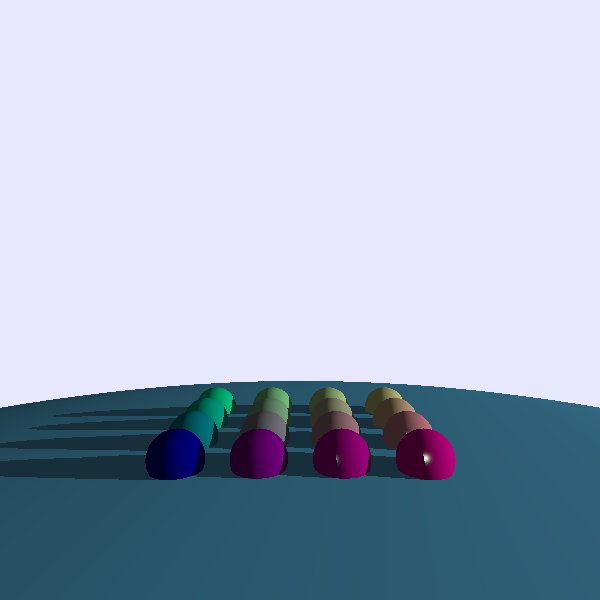
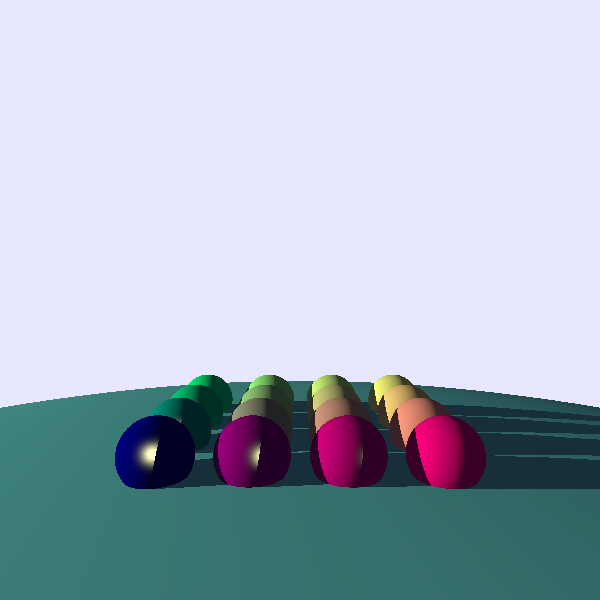
a04

Changed region(s): [[0.0, 0.6, 1.0, 1.0]]

diff --git a/src/cgg/A04.java b/src/cgg/A04.java
@@ -1,5 +1,123 @@
 package cgg;
 
+import cgg.Image;
+import java.util.ArrayList;
+import java.util.List;
+import tools.Color;
+import tools.Group;
+import tools.Lichtquelle;
+import tools.Plane;
+import tools.Shape;
+import tools.SimpleCamera;
+import tools.SimpleRayTracer;
+import tools.Sphere;
+import tools.Vec3;
+
+
 public class A04 {
+    
+    public static void main(String[] args){
+        Vec3 cameraPos = new Vec3(0,10,7);  //Y越大越高，Z越负越远
+        SimpleCamera camera = new SimpleCamera(Math.PI / 3, 600, 600, cameraPos);
+
+        List<Shape> scene = new ArrayList<>();
+
+        List<Shape> snowmen = createSnowmanGrid(4, 4); 
+        scene.addAll(snowmen);
+
+        Vec3 planeCenter = new Vec3(0,-197.8,-28); //球心位置
+        double planeRadius = 200;   //球心半径
+        Color planeColor = new Color(0.1, 0.5, 0.8);
+        double planeYMin = 5;  
+        Plane groundPlane = new Plane(planeCenter, planeRadius, planeColor, planeYMin);
+        scene.add(groundPlane); // 地面加入场景
+
+        // 4. 背景色
+        Color backgroundColor = new Color(1, 1, 1);
+
+        // 5. 添加光源
+        List<Lichtquelle> lichtquellen = new ArrayList<>();  // 创建光源列表
+        
+        // 5.1 添加方向光源（太阳光）
+        Vec3 lichtRichtung = new Vec3(5, -1, -0.9).normalize();  // 光源方向
+        Color lichtIntensitaet = new Color(2.0f, 2.0f, 1.0f);   // 白光强度
+        lichtquellen.add(Lichtquelle.createRichtungslicht(lichtRichtung, lichtIntensitaet));
+        
+        // 5.2 添加点光源（灯泡，在场景上方）
+        Vec3 punktLichtPos = new Vec3(5, -2, -1);  // 点光源位置（球体上方）
+        Color punktLichtIntens = new Color(1, 1, 1f);  // 点光源强度
+        lichtquellen.add(Lichtquelle.createPunktlicht(punktLichtPos, punktLichtIntens));
+
+    
+        // 6. 创建光线追踪器（传入光源列表）
+        SimpleRayTracer rayTracer = new SimpleRayTracer(
+            camera,
+            scene,
+            backgroundColor,
+            lichtquellen  
+        );
+
+    Image image = new Image(600,600);
+    for (int y = 0; y < 600; y++) {
+        for (int x = 0; x < 600; x++){
+            Color pixelColor = rayTracer.getColor(x, y);
+            image.setPixel(x,y, pixelColor);
+        }
+    }
+
+    image.writePng("a04");
+}    
+
+
+// 放在A04.java的类内部，作为工具方法
+private static Group createSnowman(Vec3 baseCenter, double baseRadius, Color color) {
+    Group snowman = new Group();
+    
+    // 下大球（原球体）
+    Sphere baseSphere = new Sphere(baseCenter, baseRadius, color);
+    snowman.addChild(baseSphere);
+    
+    // 上小球（半径为大球的1/2，位置在正上方）
+    double topRadius = baseRadius / 2;
+    Vec3 topCenter = new Vec3(
+        baseCenter.x(), 
+        baseCenter.y() + baseRadius + topRadius, // y轴偏移：大球半径+小球半径
+        baseCenter.z()
+    );
+    Sphere topSphere = new Sphere(topCenter, topRadius, color);
+    snowman.addChild(topSphere);
+    
+    return snowman;
+}
+
+// 创建4×4雪人矩阵
+    private static List<Shape> createSnowmanGrid(int rows, int cols) {
+        List<Shape> shapes = new ArrayList<>();
+        double baseRadius = 1.8; // 保留原大球半径
+        double spacing = 4.5;    // 保留原间距
+        double yPos = 1 + baseRadius; // 下大球的y位置（原球体y坐标）
+
+        // 中心偏移计算（保持矩阵居中，不变）
+        double centerOffsetX = (cols - 1) * spacing / 2.0;
+        double centerOffsetZ = (rows - 1) * spacing / 2.0;
+
+        for (int row = 0; row < rows; row++) {
+            for (int col = 0; col < cols; col++) {
+                // 计算下大球位置（原球体位置，不变）
+                double x = col * spacing - centerOffsetX;
+                double z = -(row * spacing - centerOffsetZ) - 22;
+                Vec3 baseCenter = new Vec3(x, yPos, z);
+
+                // 按列设置颜色（偶数列黑，奇数列白）
+                Color color = (col % 2 == 0) ? new Color(0,0,0) : new Color(1,1,1);
+                // 创建雪人组并添加到列表
+                Group snowman = createSnowman(baseCenter, baseRadius, color);
+                shapes.add(snowman);
+            }
+        }
+        return shapes;
+    }
+
+
     
 }

diff --git a/src/tools/SimpleRayTracer.java b/src/tools/SimpleRayTracer.java
@@ -4,10 +4,8 @@ import java.util.List;
 import tools.Color;
 import tools.Hit;
 import tools.Lichtquelle;
-import tools.Plane;
 import tools.Ray;
 import tools.SimpleCamera;
-import tools.Sphere;
 import tools.Vec2;
 import tools.Vec3;
 
@@ -15,22 +13,20 @@ import static tools.Functions.reflect;
 
 public class SimpleRayTracer {
     private final SimpleCamera camera;
-    private final List<Sphere> spheres;
+    private final List<Shape> scene;
     private final Color backgroundColor;
     private final List<Lichtquelle> lichtquelle;
-    private final Plane ground;
+
 
     // 构造方法：初始化场景组件
     public SimpleRayTracer(
         SimpleCamera camera, 
-        List<Sphere> spheres, 
-        Plane groundPlane,  
+        List<Shape> scene, 
         Color backgroundColor,        
         List<Lichtquelle> lichtquelle
     ) {
         this.camera = camera;
-        this.spheres = spheres;
-        this.ground = groundPlane;
+        this.scene = scene;
         this.backgroundColor = backgroundColor;
         this.lichtquelle = lichtquelle;
     }             
@@ -46,9 +42,9 @@ public class SimpleRayTracer {
         Hit closestHit = null;
         double minT = Double.POSITIVE_INFINITY;
 
-        // 检测与球体的相交
-        for (Sphere sphere : spheres) {
-            Hit hit = sphere.intersect(ray);
+        // 遍历scene中所有形状（包括球体、地面、Group）
+        for (Shape shape : scene) {
+            Hit hit = shape.intersect(ray); // 调用每个Shape的intersect方法
             if (hit != null) {
                 double t = hit.t();
                 if (t < minT && ray.isWithinBounds(t)) {
@@ -58,17 +54,7 @@ public class SimpleRayTracer {
             }
         }
 
-        // 检测与地面的相交
-        if (ground != null) {
-            Hit groundHit = ground.hit(ray);
-            if (groundHit != null) {
-                double t = groundHit.t();
-                if (t < minT && ray.isWithinBounds(t)) {
-                    minT = t;
-                    closestHit = groundHit;
-                }
-            }
-        }
+    
 
         // 3. 计算交点颜色或返回背景色
         if (closestHit != null) {
@@ -84,9 +70,7 @@ public class SimpleRayTracer {
         }
     }
 
-    private void clamp() {
-        // TODO
-    }
+    
 
     /**
      * 光照计算：环境光 + 漫反射 + 镜面反射 + 阴影
@@ -127,8 +111,8 @@ public class SimpleRayTracer {
             // 4. 镜面反射（Phong模型）
             Vec3 r = reflect(l, n);  // 反射方向
             double dotRV = Math.max(0, r.dot(v));  // 反射方向与视线夹角
-            float specularStrength = 1.0f;
-            double shininess = 200;  // 高光集中度
+            float specularStrength = 0.7f;
+            double shininess = 60;  // 高光集中度
             Color specular = lightIntensity
                 .multiply(specularStrength * (float) Math.pow(dotRV, shininess));
             specularTotal = specularTotal.add(specular);
@@ -166,20 +150,13 @@ public class SimpleRayTracer {
         Ray shadowRay = new Ray(shadowOrigin, shadowDir, epsilon, tMax);
 
         // 4. 检测与球体的遮挡
-        for (Sphere sphere : spheres) {
-            Hit hit = sphere.intersect(shadowRay);
+        for (Shape shape : scene) {
+            Hit hit = shape.intersect(shadowRay);
             if (hit != null && shadowRay.isWithinBounds(hit.t())) {
-                return true;  // 被球体遮挡
+                return true; // 被任何形状遮挡
             }
         }
 
-        // 5. 检测与地面的遮挡
-        if (ground != null) {
-            Hit groundHit = ground.hit(shadowRay);
-            if (groundHit != null && shadowRay.isWithinBounds(groundHit.t())) {
-                return true;  // 被地面遮挡
-            }
-        }
 
         // 6. 无遮挡
         return false;

diff --git a/src/cgg/A03.java b/src/cgg/A03.java
@@ -32,14 +32,14 @@ public class A03 {
         // 5. 添加光源
         List<Lichtquelle> lichtquellen = new ArrayList<>();  // 创建光源列表（非null）
         
-        // 5.1 添加方向光源（如太阳光）
-        Vec3 lichtRichtung = new Vec3(-5, -1, -0.9).normalize();  // 光源方向
-        Color lichtIntensitaet = new Color(1.0f, 1.0f, 1.0f);   // 白光强度
+        // 5.1 添加方向光源（太阳光）
+        Vec3 lichtRichtung = new Vec3(5, -1, -0.9).normalize();  // 光源方向
+        Color lichtIntensitaet = new Color(2.0f, 2.0f, 1.0f);   // 白光强度
         lichtquellen.add(Lichtquelle.createRichtungslicht(lichtRichtung, lichtIntensitaet));
         
-        // 5.2 添加点光源（如灯泡，在场景上方）
-        Vec3 punktLichtPos = new Vec3(12, 20, 20);  // 点光源位置（球体上方）
-        Color punktLichtIntens = new Color(0.8f, 0.8f, 0.5f);  // 点光源强度
+        // 5.2 添加点光源（灯泡，在场景上方）
+        Vec3 punktLichtPos = new Vec3(-1, 38, -80);  // 点光源位置（球体上方）
+        Color punktLichtIntens = new Color(1, 1, 0.5f);  // 点光源强度
         lichtquellen.add(Lichtquelle.createPunktlicht(punktLichtPos, punktLichtIntens));
 
     
@@ -68,8 +68,8 @@ public class A03 {
      */
     private static List<Sphere> createSphereGrid(int rows, int cols) {
         List<Sphere> spheres = new ArrayList<>();
-        double radius = 1.4;
-        double spacing = 4.0;
+        double radius = 1.8;
+        double spacing = 4.5;
         double yPos = 1 + radius;
 
         // 计算中心偏移，使矩阵居中

diff --git a/src/tools/Group.java b/src/tools/Group.java
@@ -1,0 +1,28 @@
+package tools;
+
+import java.util.ArrayList;
+import java.util.List;
+
+public class Group implements Shape { // 必须实现Shape接口
+    private List<Shape> children = new ArrayList<>();
+
+    // 添加子形状（参数为Shape，兼容所有实现类）
+    public void addChild(Shape child) { // 关键：参数是Shape，不是Sphere
+        children.add(child);
+    }
+
+    // 实现intersect方法（遍历子形状检测交点）
+    @Override
+    public Hit intersect(Ray ray) {
+        Hit closestHit = null;
+        double minT = Double.POSITIVE_INFINITY;
+        for (Shape child : children) {
+            Hit hit = child.intersect(ray);
+            if (hit != null && hit.t() < minT && hit.t() > 0) {
+                minT = hit.t();
+                closestHit = hit;
+            }
+        }
+        return closestHit;
+    }
+}

diff --git a/src/tools/Plane.java b/src/tools/Plane.java
@@ -3,9 +3,10 @@ package tools;
 import tools.Color;
 import tools.Hit;
 import tools.Ray;
+import tools.Shape;
 import tools.Vec3;
 
-public class Plane {
+public class Plane implements Shape {
     private final Vec3 center;    // 球面中心
     private final double radius;  // 球面半径
     private final Color color;    // 地面颜色
@@ -18,8 +19,10 @@ public class Plane {
         this.yMin = yMin;
     }
 
+    // 新增：方法名从hit改为intersect，添加@Override
+    @Override
     // 检测射线与弧形平面（球面上半部分）的相交
-    public Hit hit(Ray ray) {
+    public Hit intersect (Ray ray) {
         // 球面方程：(p - center)·(p - center) = radius²
         Vec3 oc = ray.x().subtract(center); // 射线原点到球心的向量（ray.x()是原点）
 

diff --git a/src/tools/Sphere.java b/src/tools/Sphere.java
@@ -5,7 +5,7 @@ import tools.Hit;
 import tools.Ray;
 import tools.Vec3;
 
-public class Sphere {
+public class Sphere implements Shape {
     private final Vec3 c;
     private final double r;
     private final Color color;
@@ -16,6 +16,7 @@ public class Sphere {
         this.color = color;
     }
 
+    @Override
     public Hit intersect(Ray ray){
         Vec3 oc = ray.x().subtract(c);
         double a = ray.d().dot(ray.d());

diff --git a/src/tools/Shape.java b/src/tools/Shape.java
@@ -1,0 +1,11 @@
+// tools/Shape.java（新建文件，仅包含接口定义）
+package tools;
+
+import tools.Hit;
+import tools.Ray;
+
+// 定义Shape接口，所有可被光线检测的形状都要实现它
+public interface Shape {
+    // 必须实现的方法：检测光线与形状的交点
+    Hit intersect(Ray ray);
+}
